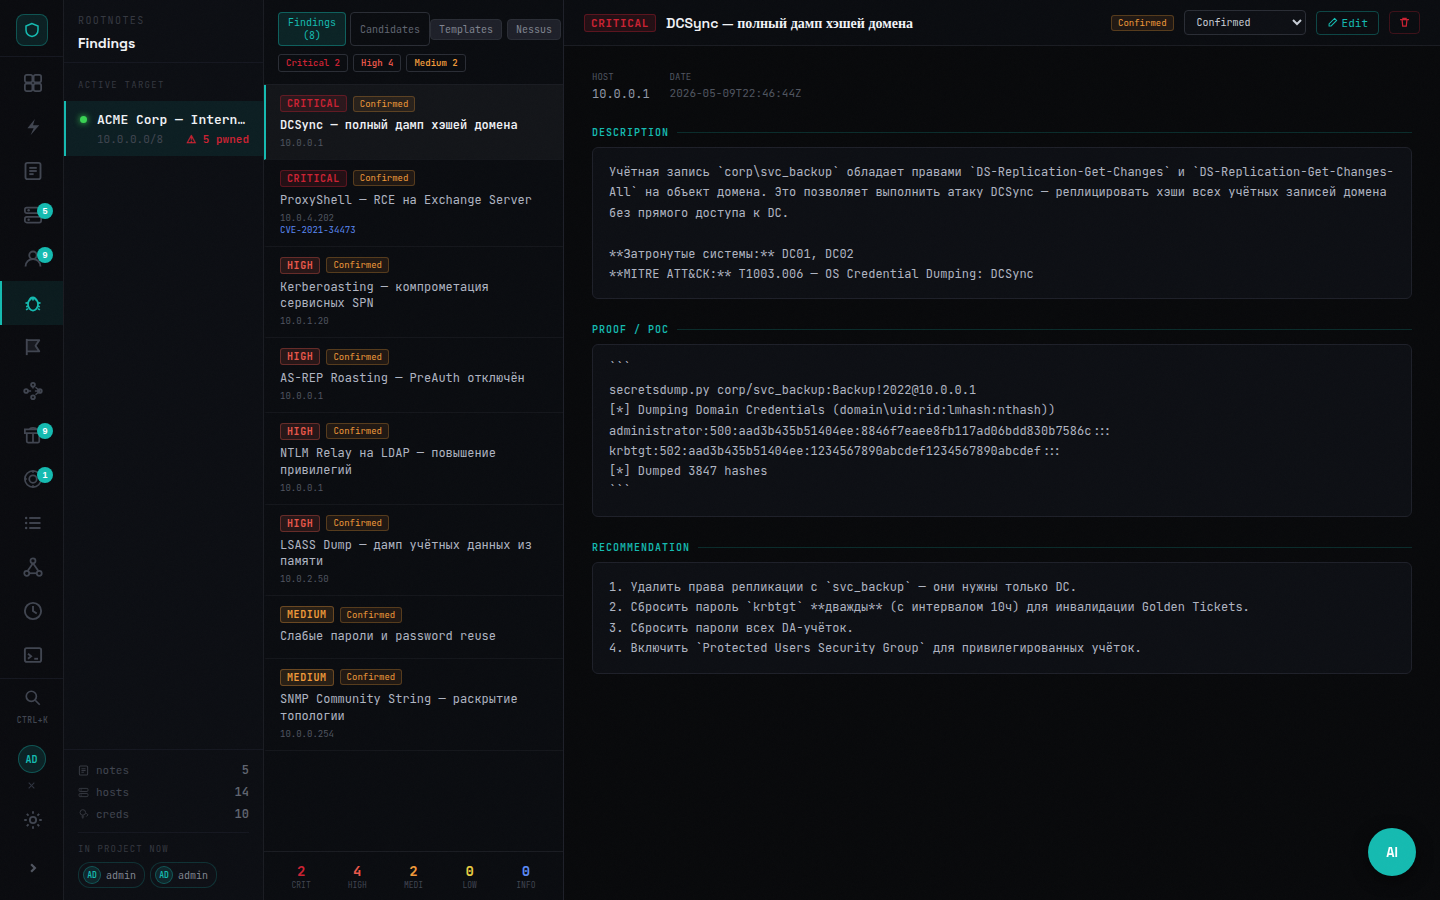
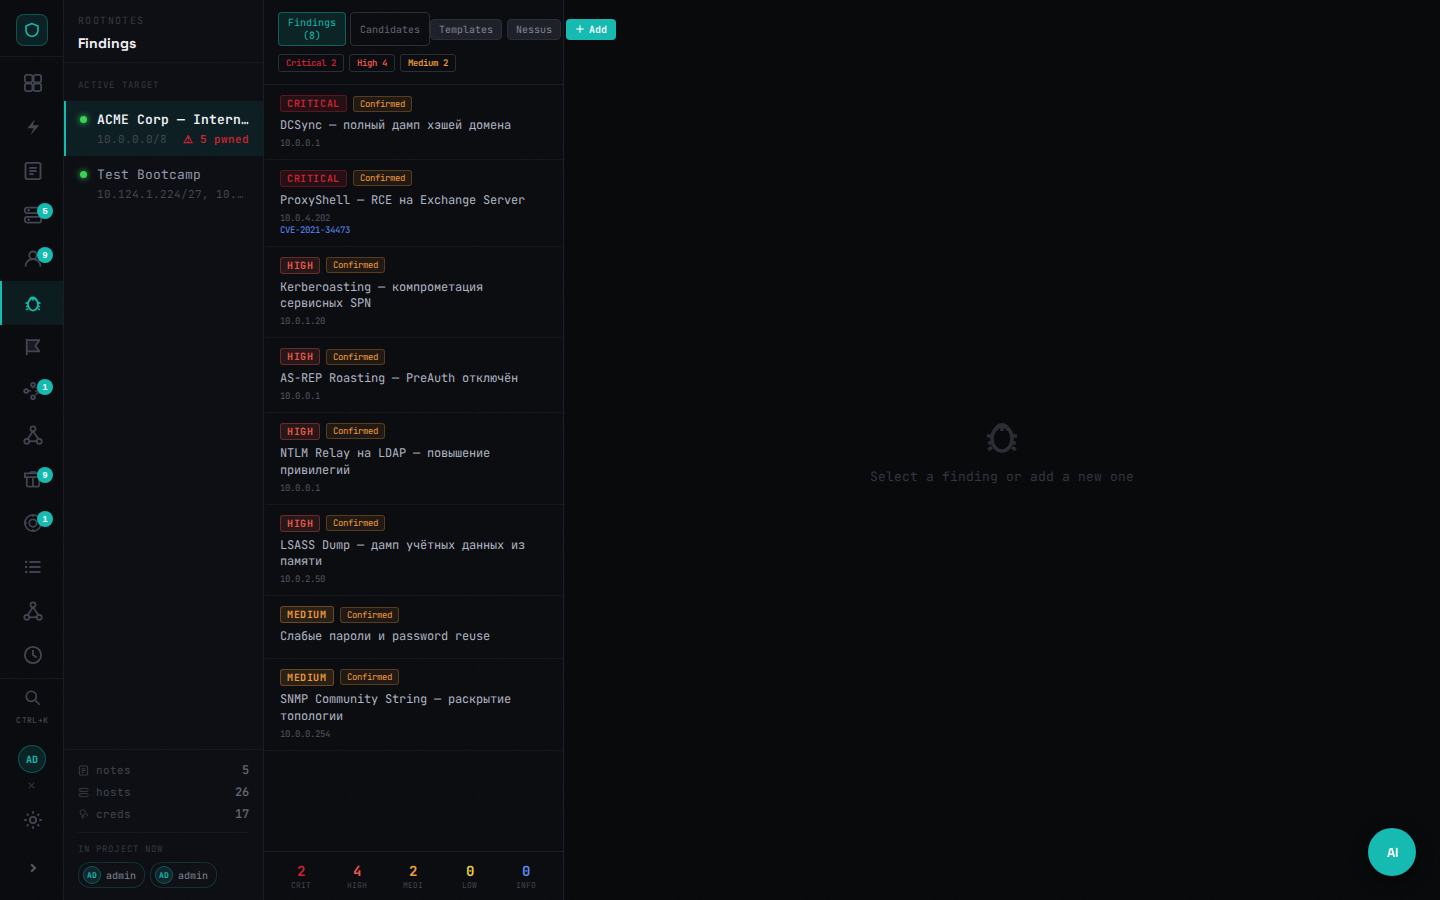
docs: refresh screenshots via ACME project, update README for v0.2.1

diff --git a/README.md b/README.md
@@ -42,19 +42,26 @@ Operations change the project. Automatically.
 ### Intelligence
 Everything your team needs to know about the engagement in one place.
 
-- **Hosts** — inventory with status (`up / access / pwned`), roles, ports, services, tags, linked credentials
+- **Hosts** — inventory with status (`up / access / pwned`), roles, ports, services, tags, linked credentials; tabbed detail panel (Details · Activity · Creds · Path)
 - **Credentials** — plaintext, NTLM, Kerberos tickets; domain/local; cracked state; host linkage
 - **Findings** — severity, CVE/CVSS, proof, recommendations, MITRE IDs, workflow status
 - **Notes** — Markdown with attachments, phases, tags, live collaboration
 - **Knowledge Base** — Markdown articles (global or project-scoped) with full-text search
 - **Attack Path** — ordered escalation steps with MITRE technique fields; link steps to real hosts
+- **Scope** — CIDR/domain/hostname entries with gateway, entry-point flag, and "reachable via" pivot host
 
 ### Visualization
 Two graph views showing different angles on the same engagement state.
 
-**Network Map** — topology canvas with VLAN regions, overlay modes (threats / sessions / access / roles), drag-and-drop layout, host inspector with activity timeline.
+**Network Map** — topology canvas with VLAN regions, overlay modes (Threats · Sessions · Access · Roles · Pivots), drag-and-drop layout, host inspector with activity timeline. Entry uplink edges shown in orange. Subnets accessible only via a pivot host show `⇄ via [host]` on the region.
 
-**Attack Graph** — interactive canvas showing hosts connected by credential paths. Drag nodes to reposition. Click any node to see linked credentials, findings that mention it, ports and services.
+**Attack Graph** — interactive canvas showing hosts connected by credential paths, access edges, pivot routes, and privilege escalation chains. Node badges for DA/DC status and reachability distance. Side panel shows privilege path and pivot routes for selected host.
+
+### Pivots
+- Manual pivot creation from the Network Map toolbar (tool, type, route CIDR, status)
+- Auto-collection from chisel / ligolo / Adaptix via SSH collector
+- Pivot route edges: all hosts in route CIDR linked to pivot node on the Attack Graph
+- Scope `via_host_id`: mark a subnet as reachable only via a specific machine — Smart Build adds route edges and the region shows the pivot annotation
 
 ### Evidence pipeline
 - Loot: files, hashes, secrets, configs — upload/download with auth, linked to host + job + credential
@@ -68,13 +75,13 @@ Executive summary built from real project data: compromised hosts, cracked crede
 
 ## Screenshots
 
-### Network Map — overlay modes: Threats · Sessions · Access · Roles
-![Network](docs/screenshots/03_network.png)
+### Network Map — topology canvas with VLAN regions and overlay modes
+![Network Map](docs/screenshots/03_network.png)
 
-### Attack Graph — interactive canvas with linked creds and findings
-![Attack Graph](docs/screenshots/attackgraph.png)
+### Attack Graph — privilege paths, pivot routes, DA/DC node badges
+![Attack Graph](docs/screenshots/15_attackgraph.png)
 
-### Hosts
+### Hosts — tabbed panel: Details · Activity · Creds · Path
 ![Hosts](docs/screenshots/04_hosts.png)
 
 ### Credentials
@@ -92,11 +99,20 @@ Executive summary built from real project data: compromised hosts, cracked crede
 ### Knowledge Base
 ![Knowledge Base](docs/screenshots/09_kb.png)
 
-### Global Search
-![Search](docs/screenshots/10_search.png)
+### Scope — with gateway, entry-point, and pivot host fields
+![Scope](docs/screenshots/14_scope.png)
+
+### Attack Path
+![Attack Path](docs/screenshots/13_attackpath.png)
+
+### Jobs
+![Jobs](docs/screenshots/11_jobs.png)
 
 ### Report
-![Report](docs/screenshots/15_report.png)
+![Report](docs/screenshots/16_report.png)
+
+### Timeline
+![Timeline](docs/screenshots/17_timeline.png)
 
 ---
 
@@ -177,4 +193,3 @@ nginx ──► frontend   (React + Vite, static build)
 - Confidential note content is encrypted at rest when the note carries tags like `confidential`, `secret`, `sensitive`, `opsec`, or `restricted`
 - Sensitive text loot values are encrypted at rest for non-file artifacts
 - Read-audit events are recorded when users view credential secrets, confidential notes, sensitive loot, or download protected files
-- Project owners/admins can trigger `POST /api/projects/{pid}/purge` to remove a project and its uploaded files quickly after an operation
